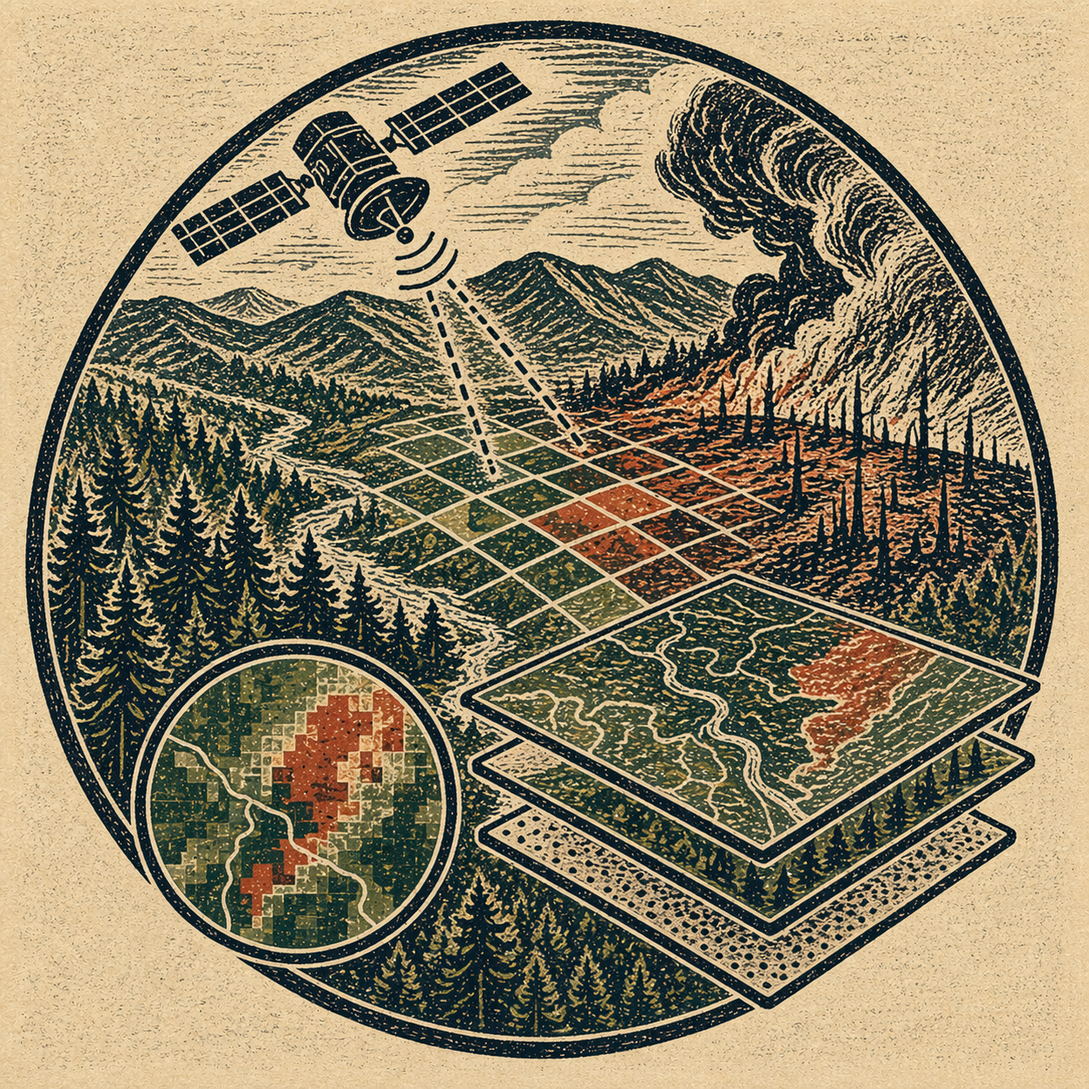
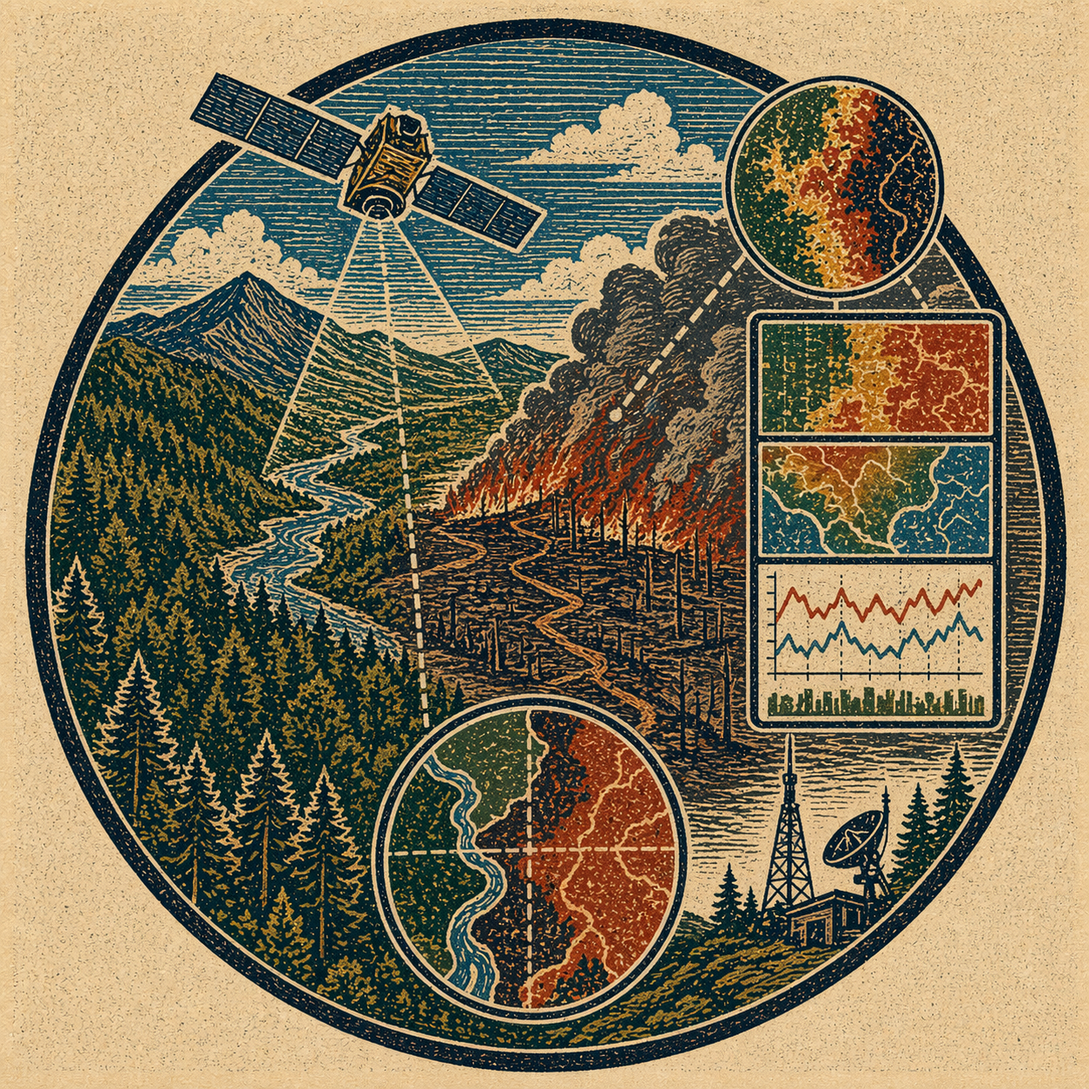
image updates

diff --git a/docs/button-image-guidelines.md b/docs/button-image-guidelines.md
@@ -42,12 +42,13 @@ Required style characteristics:
 - one clear concept per image
 - print-inspired scientific illustration
 - subtle texture and slight imperfection
-- muted palette built from cream, green, and dark ink tones
+- restrained 3 to 4 color palette that feels brighter and more lively while
+  still print-based
 - strong readability at homepage thumbnail size
 
 Default style shorthand:
 
-`screen print / linocut / woodblock inspired scientific illustration, square image, cream paper, muted greens, dark ink, slight print texture, one clear subject, no text`
+`screen print / linocut / woodblock inspired scientific illustration, square image, cream paper, dark ink, 3 to 4 brighter but earthy colors, slight print texture, one clear subject, no text`
 
 ## Composition rules
 
@@ -68,15 +69,22 @@ Primary palette:
 
 - dark ink: charcoal, deep green-black, forest ink
 - light ground: cream, warm ivory, parchment
-- secondary tones: muted sage, moss, olive, subdued eucalyptus
+- color 1: leafy sage or moss green
+- color 2: brighter teal-blue or dusty cyan
+- color 3: warm rust, clay red, or poppy coral
+- optional color 4: ochre or golden straw
 
-Optional accent use:
+Palette rule:
 
-- restrained earthy rust
-- restrained dusty blue-green
+- Most new images should use 3 clear colors plus dark ink on a cream ground.
+- The colors should pop more than the earlier muted set, but still feel
+  printed, earthy, and scientific rather than neon or glossy.
+- Use contrast intentionally so the image reads at small size.
 
 Avoid:
 
+- monochrome treatments unless replacing a legacy asset that already depends on
+  it
 - neon greens
 - bright tech blues and purples
 - glossy gradients
@@ -146,7 +154,7 @@ Subject: [specific content-derived subject].
 Style: screen print / linocut / woodblock inspired scientific illustration.
 Composition: one clear concept, strong focal structure, readable at thumbnail size.
 Texture: subtle paper grain, imperfect ink, carved or printed linework, not clean vector.
-Palette: cream background, muted greens, dark ink tones, restrained earthy accent only if needed.
+Palette: cream background, dark ink, and 3 to 4 brighter but earthy print colors such as sage green, teal-blue, warm rust, and ochre.
 Mood: thoughtful, research-oriented, ecological, content-specific.
 Constraints: no text, no logos, no photorealism, no glossy UI icon style, no corporate SaaS look.
 ```
@@ -154,7 +162,7 @@ Constraints: no text, no logos, no photorealism, no glossy UI icon style, no cor
 ## Negative prompt template
 
 ```text
-text, letters, logo, photorealism, glossy icon, app icon, clean flat vector, SaaS illustration, shiny 3D render, neon colors, futuristic dashboard, corporate tech branding, emoji style, mascot, clutter, unrelated symbols, infographic, stock icon set
+text, letters, logo, photorealism, glossy icon, app icon, clean flat vector, SaaS illustration, shiny 3D render, muddy monochrome palette, neon colors, futuristic dashboard, corporate tech branding, emoji style, mascot, clutter, unrelated symbols, infographic, stock icon set
 ```
 
 ## Example prompts
@@ -167,7 +175,7 @@ Subject: a wildfire boundary research scene showing ecological burn patterns, la
 Style: screen print / linocut / woodblock inspired scientific illustration.
 Composition: one clear focal concept, readable at thumbnail size.
 Texture: subtle paper grain, imperfect ink, carved linework.
-Palette: cream paper, muted greens, dark ink, restrained earthy rust.
+Palette: cream paper, dark ink, sage green, teal-blue, and warm rust.
 Constraints: no text, no logos, no photorealism, no glossy UI icon style, no corporate SaaS look.
 ```
 
@@ -179,7 +187,7 @@ Subject: environmental data analysis combining a map surface, ecological forms, 
 Style: screen print / linocut / woodblock inspired scientific illustration.
 Composition: one integrated concept, not a symbol collage.
 Texture: printed ink texture and carved contours.
-Palette: cream, sage, moss, dark ink.
+Palette: cream, dark ink, sage green, teal-blue, and ochre.
 Constraints: no text, no logos, no photorealism, no glossy interface icon style.
 ```
 
@@ -191,7 +199,7 @@ Subject: a small group of researchers gathered around environmental data, field 
 Style: screen print / woodblock scientific illustration.
 Composition: one central collaboration scene with a small number of supporting scientific details.
 Texture: imperfect ink and paper grain.
-Palette: cream, muted greens, dark ink.
+Palette: cream, dark ink, sage green, teal-blue, and warm rust.
 Constraints: no text, no generic network iconography, no corporate illustration style.
 ```
 
@@ -202,7 +210,7 @@ Create a square homepage button image for OASIS.
 Subject: a learner-oriented environmental data science scene with notebook, map, and analysis marks arranged as one coherent printed composition.
 Style: linocut / woodblock inspired scientific illustration.
 Composition: one clear concept, readable at small scale.
-Palette: cream paper, muted greens, dark ink.
+Palette: cream paper, dark ink, sage green, teal-blue, and ochre.
 Constraints: no text, no photorealism, no glossy UI icon style.
 ```
 
@@ -214,7 +222,7 @@ Subject: environmental computing infrastructure represented through containers, 
 Style: screen print / linocut / woodblock inspired scientific illustration.
 Composition: one clear infrastructure concept, readable at thumbnail size.
 Texture: subtle print grain, imperfect ink.
-Palette: cream, muted green family, dark ink.
+Palette: cream, dark ink, sage green, teal-blue, warm rust, and optional ochre.
 Constraints: no text, no logos, no generic cloud icon cluster, no glossy UI icon style.
 ```
 
@@ -246,7 +254,8 @@ Examples:
 - Is there one clear concept?
 - Does the image match the OASIS print-inspired family?
 - Does the image communicate the real content intent?
-- Is the palette limited and muted?
+- Does the palette use 3 to 4 brighter but earthy colors instead of reading as
+  muddy or monochrome?
 - Is there visible texture and slight imperfection?
 - Is the image readable at homepage thumbnail size?
 - Is there no text inside the image?
